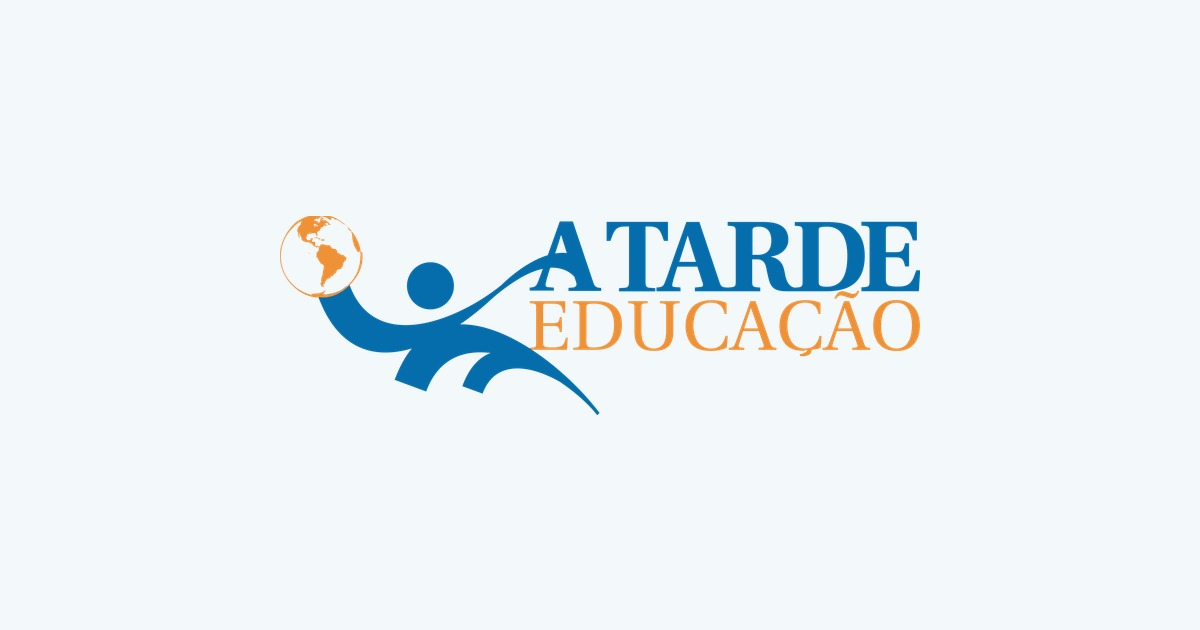
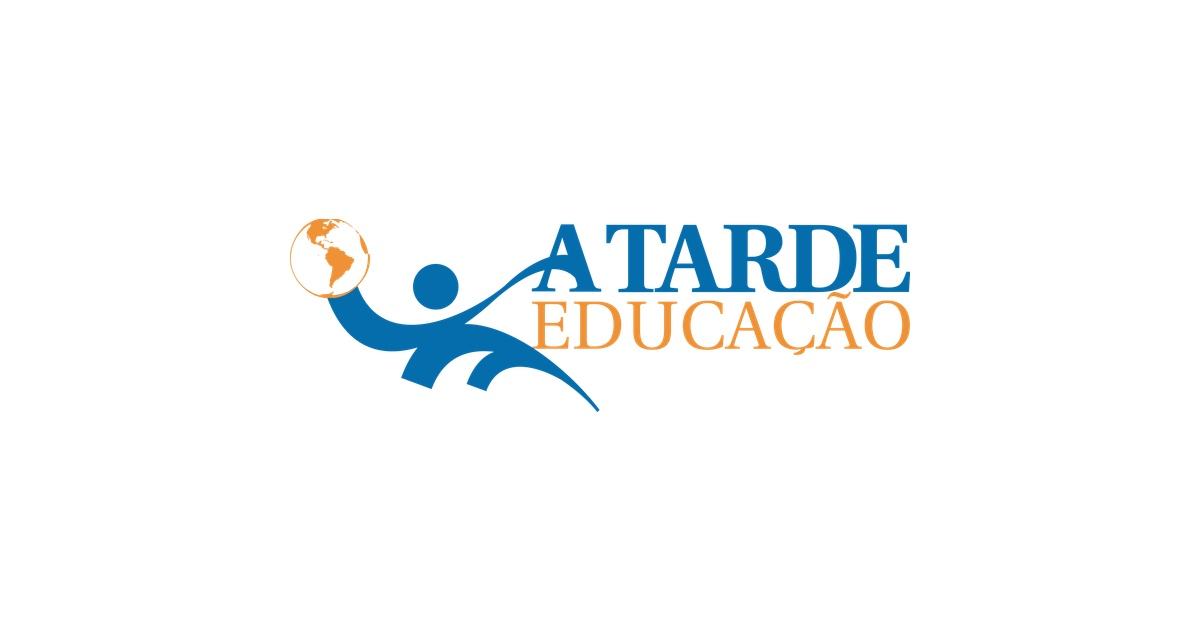
Move CTA de premiações pra dentro da Hero de Eventos; imagem OG com fundo branco
- CTA "Conheça nosso portal de premiações" agora fica logo abaixo do texto
  de intro na PageHero, em vez de numa seção separada
- Imagem de compartilhamento (og:image) trocada: logo com fundo branco e
  padding generoso, no formato grande (1200x630) usado pelo WhatsApp

Changed region(s): [[0.2158, 0.3317, 0.7708, 0.6333]]

diff --git a/app/pages/eventos.vue b/app/pages/eventos.vue
@@ -17,29 +17,28 @@ const filtrados = computed(() => eventos.filter((e) => matchesSearch(busca.value
       kicker="Eventos"
       title="Encontros que colocam a educação em movimento."
       text="Ao longo do ano, o A TARDE Educação promove diferentes experiências que ampliam os espaços de aprendizagem, diálogo e participação. São encontros, iniciativas culturais, formações e premiações que aproximam educadores, estudantes e comunidades de temas relevantes para a educação e para a sociedade."
-    />
+    >
+      <a
+        href="https://atardeeducacaopremia.atarde.com.br/"
+        target="_blank"
+        rel="noopener noreferrer"
+        class="ate-premia-cta"
+      >
+        <div>
+          <strong>Conheça o nosso portal de premiações</strong>
+          <span>Concursos culturais, prêmios e regulamentos do A TARDE Educação, tudo em um só lugar.</span>
+        </div>
+        <span class="ate-btn ate-btn--primary ate-btn--sm ate-premia-cta__btn">
+          Visitar portal
+          <svg viewBox="0 0 24 24" width="15" height="15" fill="none" stroke="currentColor" stroke-width="2.2">
+            <path d="M7 17 17 7M9 7h8v8" stroke-linecap="round" stroke-linejoin="round" />
+          </svg>
+        </span>
+      </a>
+    </PageHero>
 
     <section class="ate-section">
       <div class="ate-container">
-        <a
-          href="https://atardeeducacaopremia.atarde.com.br/"
-          target="_blank"
-          rel="noopener noreferrer"
-          class="ate-premia-cta ate-reveal"
-          v-reveal
-        >
-          <div>
-            <strong>Conheça o nosso portal de premiações</strong>
-            <span>Concursos culturais, prêmios e regulamentos do A TARDE Educação, tudo em um só lugar.</span>
-          </div>
-          <span class="ate-btn ate-btn--primary ate-btn--sm ate-premia-cta__btn">
-            Visitar portal
-            <svg viewBox="0 0 24 24" width="15" height="15" fill="none" stroke="currentColor" stroke-width="2.2">
-              <path d="M7 17 17 7M9 7h8v8" stroke-linecap="round" stroke-linejoin="round" />
-            </svg>
-          </span>
-        </a>
-
         <div class="ate-toolbar ate-reveal" v-reveal="80">
           <p class="ate-kicker" style="margin-bottom: 0">Iniciativas permanentes</p>
           <SearchInput v-model="busca" placeholder="Buscar por nome ou tema..." />
@@ -81,7 +80,7 @@ const filtrados = computed(() => eventos.filter((e) => matchesSearch(busca.value
   justify-content: space-between;
   gap: 1.2rem;
   padding: 1.5rem 1.75rem;
-  margin-bottom: 2.4rem;
+  margin-top: 2rem;
   border-radius: var(--ate-radius);
   background: linear-gradient(135deg, var(--ate-blue) 0%, var(--ate-blue-deep) 100%);
   color: #fff;
